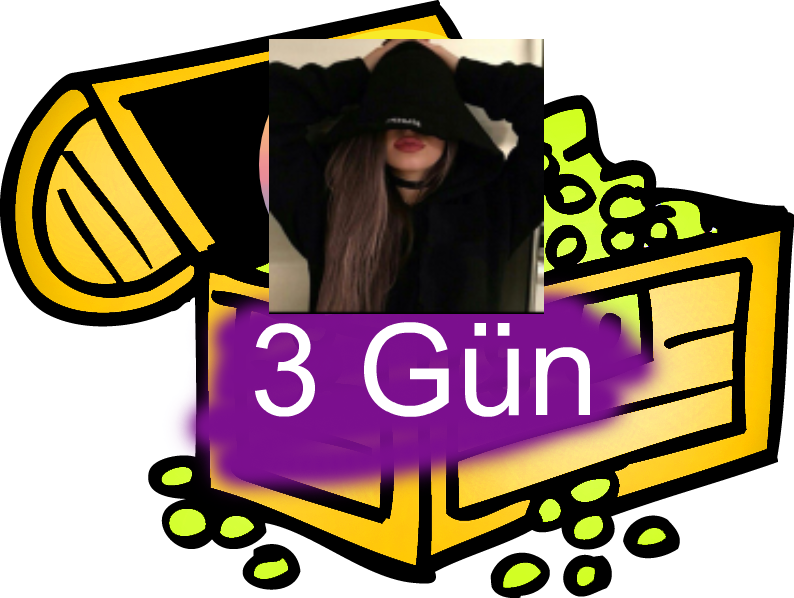
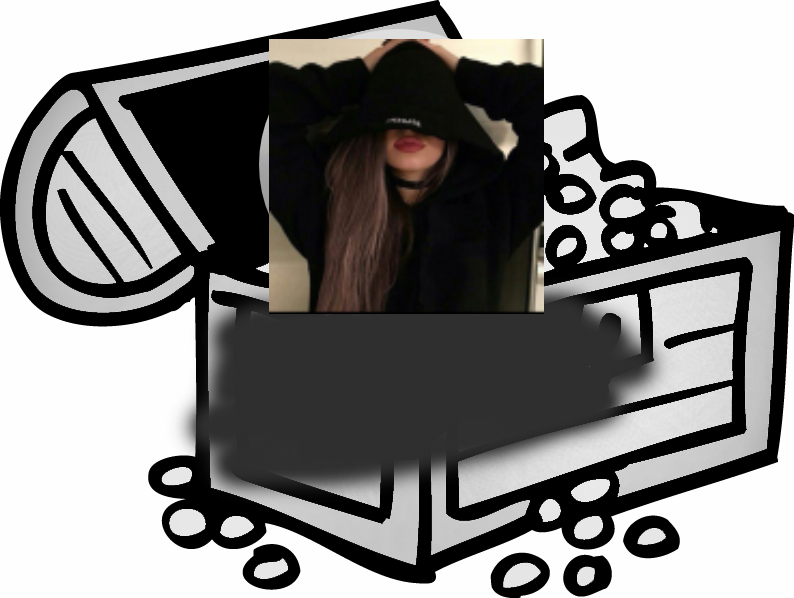
🏮👴 Checkpoint ./komutlar/eg-test.js:5472946/243

diff --git a/komutlar/eg-test.js b/komutlar/eg-test.js
@@ -6,11 +6,12 @@ exports.run = (client, message, args) => {
 
  var user = message.mentions.users.first() || message.author; 
   
-  Jimp.read(`https://cdn.discordapp.com/attachments/649581228835602432/650049417885253643/topazac.png`, (err, image) => {
+  Jimp.read(`https://cdn.discordapp.com/attachments/649581228835602432/650052923728068628/unknown.png`, (err, image) => {
     image.resize(794, 598)
+image.greyscale();                // remove colour from the image
 
     Jimp.read(user.avatarURL, (err, avatar) => {
-        avatar.resize(275, 275)
+        avatar.resize(275, 275) 
         image.composite(avatar, 269, 39).write(`./resimler/kralol/kralol-${message.author.id}.png`);
         setTimeout(function() {
             message.channel.send(new Discord.Attachment(`./resimler/kralol/kralol-${message.author.id}.png`));
